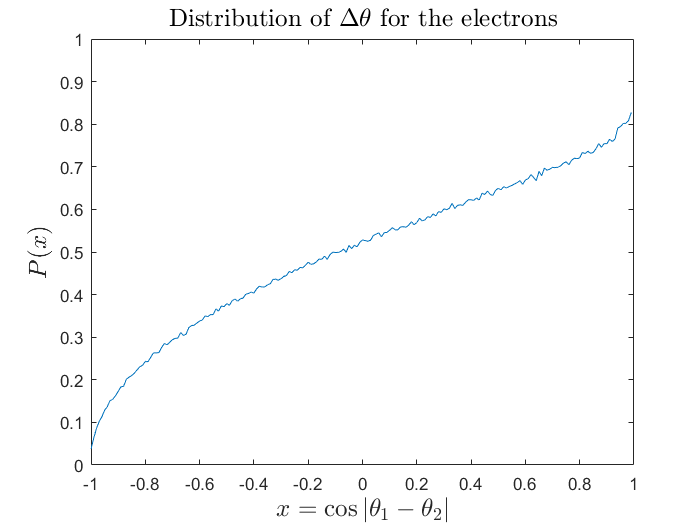
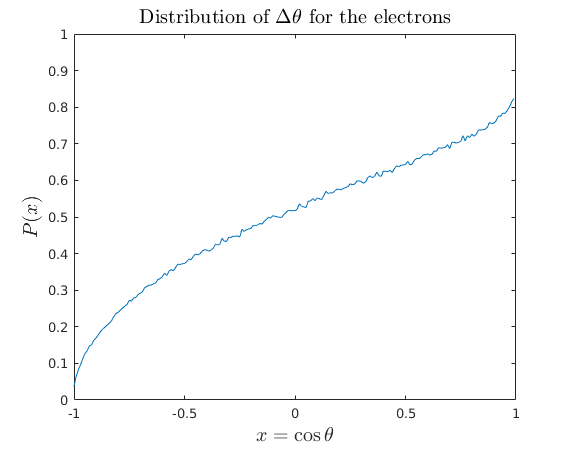
Minor fixes in report and fixed xlabel on figure in task 1.

diff --git a/report/report.tex b/report/report.tex
@@ -12,38 +12,30 @@
 
 \section*{Introduction}
 
-In quantum mechanics we often have a Hamiltonian $\mathbf{H}$ that describes the energy of the studied system. Given a wave function $\psi$, the corresponding energy for that state is given by,
-
+In quantum mechanics we often have a Hamiltonian operator $\mathbf{H}$ that describes the energy of the studied system. Given a wave function $\psi$, the corresponding energy for that state is given by,
 \begin{equation}
 E=\frac{\left<\psi|\mathbf{H}|\psi\right>}{\left<\psi|\psi\right>}.
 \end{equation}
 
 For the Hamiltonian we have a corresponding ground state energy $E_0$ which is the lowest energy possible. The wave function $\psi_0$ that represents this lowest energy is often not known and a trial wave function $\phi$ is guessed. For any such $\phi \neq \psi_0$, the energy given by the Hamiltonian will always be larger than the ground state energy, $E \geq E_0$. For the next few problems we want to study the Hamiltonian describing the energy of a helium atom with two electrons. This Hamiltonian, neglecting fine structure, have the following form,
-
 \begin{equation}
 \mathbf{H}=-\frac{\hbar}{2m_e}\left(\nabla_1^2+\nabla_2^2\right)-\frac{e^2}{4\pi \epsilon_0}\left(\frac{2}{r_1}+\frac{2}{r_2}-\frac{1}{|r_1-r_2|}\right),
 \end{equation} 
-
-where $m_e$ is the mass of a electron, $e$ is the elementary charge, $\hbar$ is the reduced Planck constant, $\epsilon_0$ is the vacuum permittibility, $r_1$ and $r_2$ are the distances of the two electrons from the nucleus and the distance between these are $|\mathbf{r}_1-\mathbf{r}_2|$. For simplicity we use atomic units, i.e. $\hbar=e=m=4\pi\epsilon=1$. We want to see how well the trial wave,
-
+where $m_e$ is the mass of a electron, $e$ is the elementary charge, $\hbar$ is the reduced Planck constant, $\epsilon_0$ is the vacuum permittibility, $r_1$ and $r_2$ are the distances of the two electrons from the nucleus and the distance between these is $|\mathbf{r}_1-\mathbf{r}_2|$. For simplicity we use atomic units, i.e. $\hbar=e=m=4\pi\epsilon=1$. We want to see how well the trial wave,
 \begin{equation}
-\psi_T(\mathbf{r_1},\mathbf{r_2})=e^{-2r_1}e^{-2r_2}e^{\frac{r_{12}}{2(1+\alpha r_{12})}},
+\psi_T(\mathbf{r_1},\mathbf{r_2})=e^{-2r_1}e^{-2r_2}e^{r_{12}/2(1+\alpha r_{12})},
 \end{equation}
 
 is compared to the unknown ground state wave function $\psi_0$, where $\alpha$ is a parameter to be optimized. To calculate the energy for this trial wave we need to integrate over the whole physical line in 6 dimensions. This cannot be done analytically and we need to use numerical approximation methods to evaluate the integral. We will use the variational Monte Carlo method using the Metropolis algorithm. For each state $(\mathbf{r_1},\mathbf{r_2})$ we thus have the \textit{local energy},
-
 \begin{equation}
 E_{L}(\mathbf{r}_1,\mathbf{r}_2)= \frac{\mathbf{H}\psi_L(\mathbf{r}_1,\mathbf{r}_2)}{\psi_L(\mathbf{r}_1,\mathbf{r}_2)}
 \end{equation}
-
 and the normalised probability to be in this state is,
-
 \begin{equation}
 \rho(\mathbf{r}_1,\mathbf{r}_2)=\frac{|\psi_L(\mathbf{r}_1,\mathbf{r}_2)|^2}{\int dr_1dr_2|\psi_L(\mathbf{r}_1,\mathbf{r}_2)|^2}.
 \end{equation}
 
 This probability will never be calculated directly as we only need the relative probabilities from the current state to a new state,
-
 \begin{equation}
 \rho_{rel}(\mathbf{r'}_1,\mathbf{r'}_2,\mathbf{r}_1,\mathbf{r}_2)=\frac{|\psi_L(\mathbf{r'}_1,\mathbf{r}_2')|^2}{|\psi_L(\mathbf{r}_1,\mathbf{r}_2)|^2}.
 \end{equation}
@@ -75,7 +67,7 @@ Transforming these sample points to spherical coordinates we can study the corre
 	x = \cos \left|\theta_1 - \theta_2\right| \Rightarrow P(x) = \frac{1}{2},\quad -1 < x < 1.
 \end{equation}
 
-From the variational Monte Carlo we obtain the result in Fig.~\ref{fig:RDF}. This indicates a clear correlation where the $\theta$ coordinate of the electrons tends to be approximately the same. At least a slight correlation is expected, however whether it should be this strongly correlated or not, we do not know.
+From the variational Monte Carlo we obtain the result in Fig.~\ref{fig:RDF}. This indicates a clear correlation where the electrons tend to be approximately the close together. At least a slight correlation is expected, however whether it should be this strongly correlated or not, we do not know.
 
 \section*{Problem 2}
 
@@ -94,9 +86,9 @@ From the variational Monte Carlo we obtain the result in Fig.~\ref{fig:RDF}. Thi
 	\label{fig:block_error}
 \end{figure}
 
-In order for the Metropolis algorithm to yield good and accurate results we need the system to run for a time in order to reach statistically likely configurations as the initial condition might be very unlikely. We can see in Fig. \ref{fig:block_error}(left) that we need discard $\approx10^4$ trials. For the remainder of the tasks we go well beyond this number, we take one tenth of the total trials as equilibration, to really make sure we reach a good statistically likely Markov chain.\\
+In order for the Metropolis algorithm to yield good and accurate results we need the system to run for a time in order to reach statistically likely configurations as the initial condition might be very unlikely. We can see in Fig. \ref{fig:block_error}(left) that we need discard $\approx10^4$ trials. For the remainder of the tasks we go well beyond this number, we take one tenth of the total trials as equilibration, to really make sure we reach a good statistically likely Markov chain.
 
-When we know where to start our simulation we need to know how correlated the trial data is in order to receive accurate statistics. If we take the energy in each time-step we would like to know it's statistical inefficiency. This calculation is done in two ways to show our results are rigorous, first by considering blocks of different lengths and calculate the correlation of the data in these blocks, and secondly by calculating the auto-correlation function.\\
+When we know where to start our simulation we need to know how correlated the trial data is in order to receive accurate statistics. If we take the energy in each time-step we would like to know it's statistical inefficiency. This calculation is done in two ways to show our results are rigorous, first by considering blocks of different lengths and calculate the correlation of the data in these blocks, and secondly by calculating the auto-correlation function.
 
 The results for using the block length can be seen in Fig.\ref{fig:block_error}(right) and we see that it stagnates around 11 for about 200 in block length. The statistical inefficiency using the auto-correlation was also 11.
 
@@ -126,25 +118,18 @@ In order to determine the best value of the variational parameter $\alpha$, we r
 \section*{Problem 4}
 
 Instead of guessing the optimal $\alpha$ we can instead use a damped steepest decent to reach a local minimum for the $\alpha$. Here we use the update rule in the method,
-
 \begin{equation}
 \alpha_{p+1} = \alpha_p-\gamma_p \nabla_\alpha E(\alpha_p)
 \end{equation} 
-
 where the damping coefficient,
-
 \begin{equation}
 \gamma_p=Ap^{-\beta},
 \end{equation}
-
 with $A=1$ and $0.5\leq\beta < 1$. The gradient $\nabla_\alpha E(\alpha)$ is calculated to,
-
 \begin{equation}
 \nabla_\alpha E(\alpha) = 2\left[\left<E_L(\mathcal{R})\nabla_\alpha \ln{\psi_T(\mathcal{R})}\right>-\left<E_L(\mathcal{R})\right>\left<\nabla_\alpha\ln{\psi_T(\mathcal{R})}\right>\right]
 \end{equation}
-
 where $\mathcal{R}$ is the electron state configurations and the averages are calculated in the ordinary Metropolis algorithm. The gradient on the $wave function $ is,
-
 \begin{equation}
 \nabla_\alpha \ln{\psi_T(\mathcal{R})} = -\frac{r_{12}^2}{2(1+\alpha r_{12})^2}.
 \end{equation}

diff --git a/code/Task1/plot_angle_diff.m b/code/Task1/plot_angle_diff.m
@@ -9,7 +9,7 @@ x = cos(angle_diff);
 plot(bin(1:end-1),h)
 axis([-1 1 0 1])
 
-xlabel('$x = \cos |\theta_1-\theta_2|$','interpreter','latex', 'fontsize', 15)
+xlabel('$x = \cos \theta$','interpreter','latex', 'fontsize', 15)
 ylabel('$P(x)$','interpreter','latex', 'fontsize', 15)
 title('Distribution of $\Delta \theta$ for the electrons',...
     'interpreter','latex', 'fontsize', 15)
